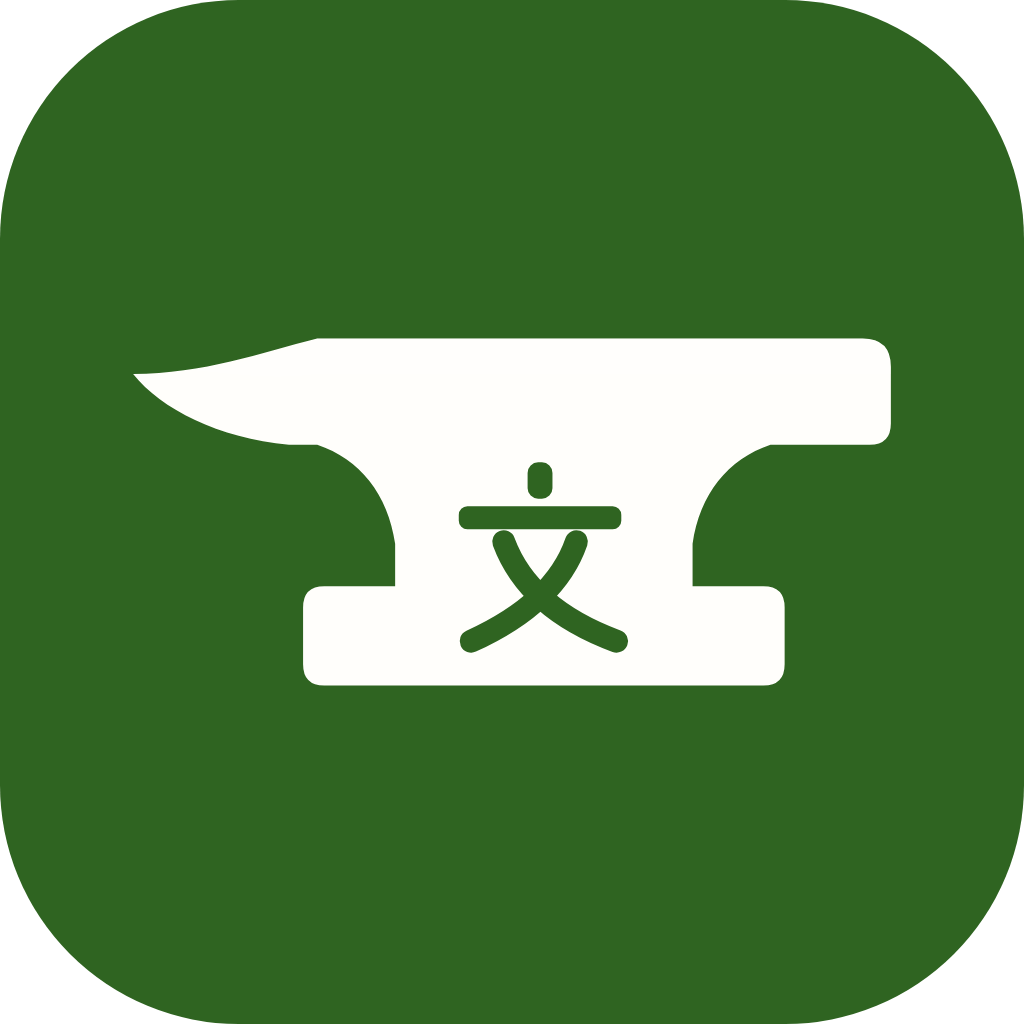
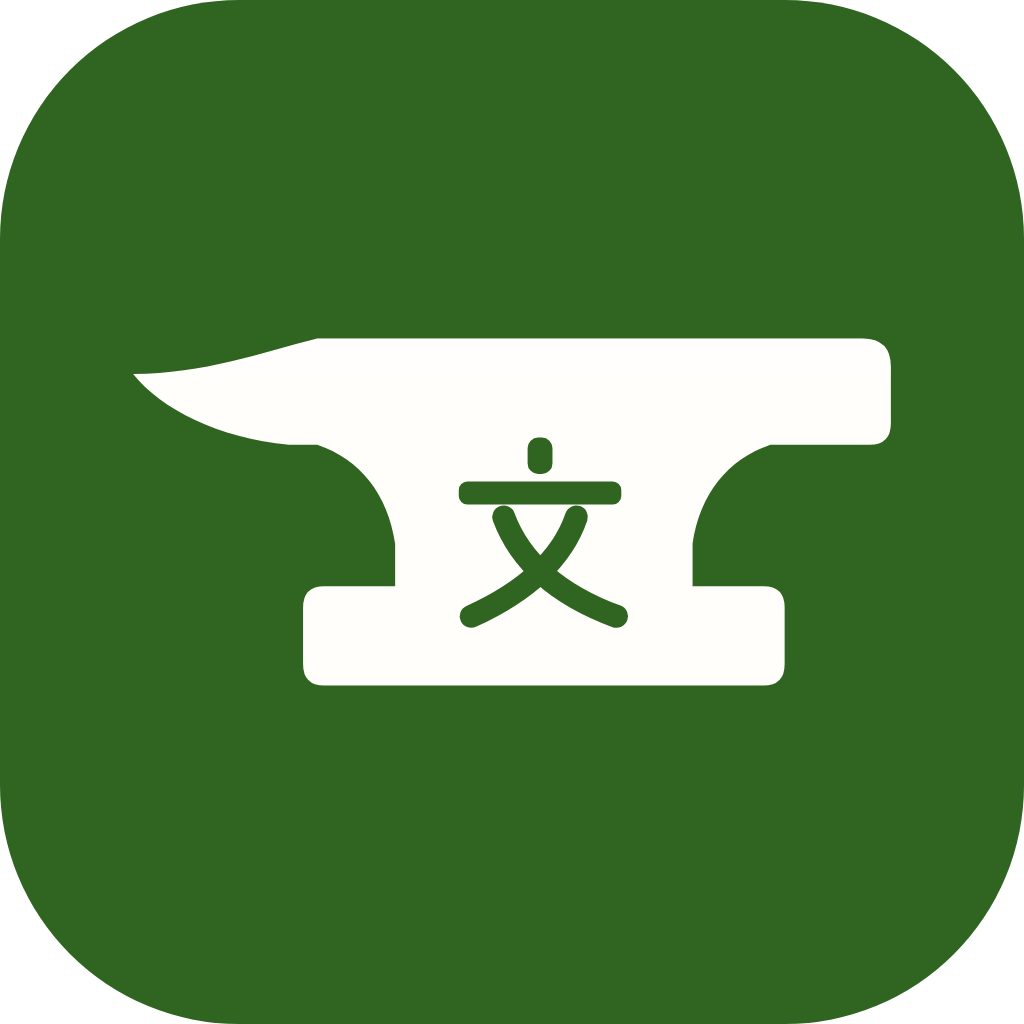
fix: raise wen cut-out on the anvil for balanced spacing
Claude-Session: https://claude.ai/code/session_012wCgMtm5zK7AkKFSuiu2RD

Changed region(s): [[0.4375, 0.4062, 0.625, 0.6562]]

diff --git a/apps/site/src/components/logoGeometry.ts b/apps/site/src/components/logoGeometry.ts
@@ -23,9 +23,9 @@ export const WEN_STROKE_WIDTH = 12;
 /** 含圓頭描邊後的「文」外接框（局部座標） */
 const WEN_BOUNDS = { minX: 8, minY: 2, maxX: 96, maxY: 101 } as const;
 
-/** 「文」縮放後置中於砧身（腰部到底座）的中心點 */
+/** 「文」中心點：砧身（腰部到底座）中心 y 81 往上 4.5，視覺上下留白較平衡 */
 const WEN_SCALE = 0.27;
-const WEN_CENTER = { x: 64, y: 80 } as const;
+const WEN_CENTER = { x: 64, y: 76.5 } as const;
 const WEN_TX = WEN_CENTER.x - ((WEN_BOUNDS.minX + WEN_BOUNDS.maxX) / 2) * WEN_SCALE;
 const WEN_TY = WEN_CENTER.y - ((WEN_BOUNDS.minY + WEN_BOUNDS.maxY) / 2) * WEN_SCALE;
 export const WEN_TRANSFORM = `translate(${WEN_TX.toFixed(2)} ${WEN_TY.toFixed(2)}) scale(${WEN_SCALE})`;
